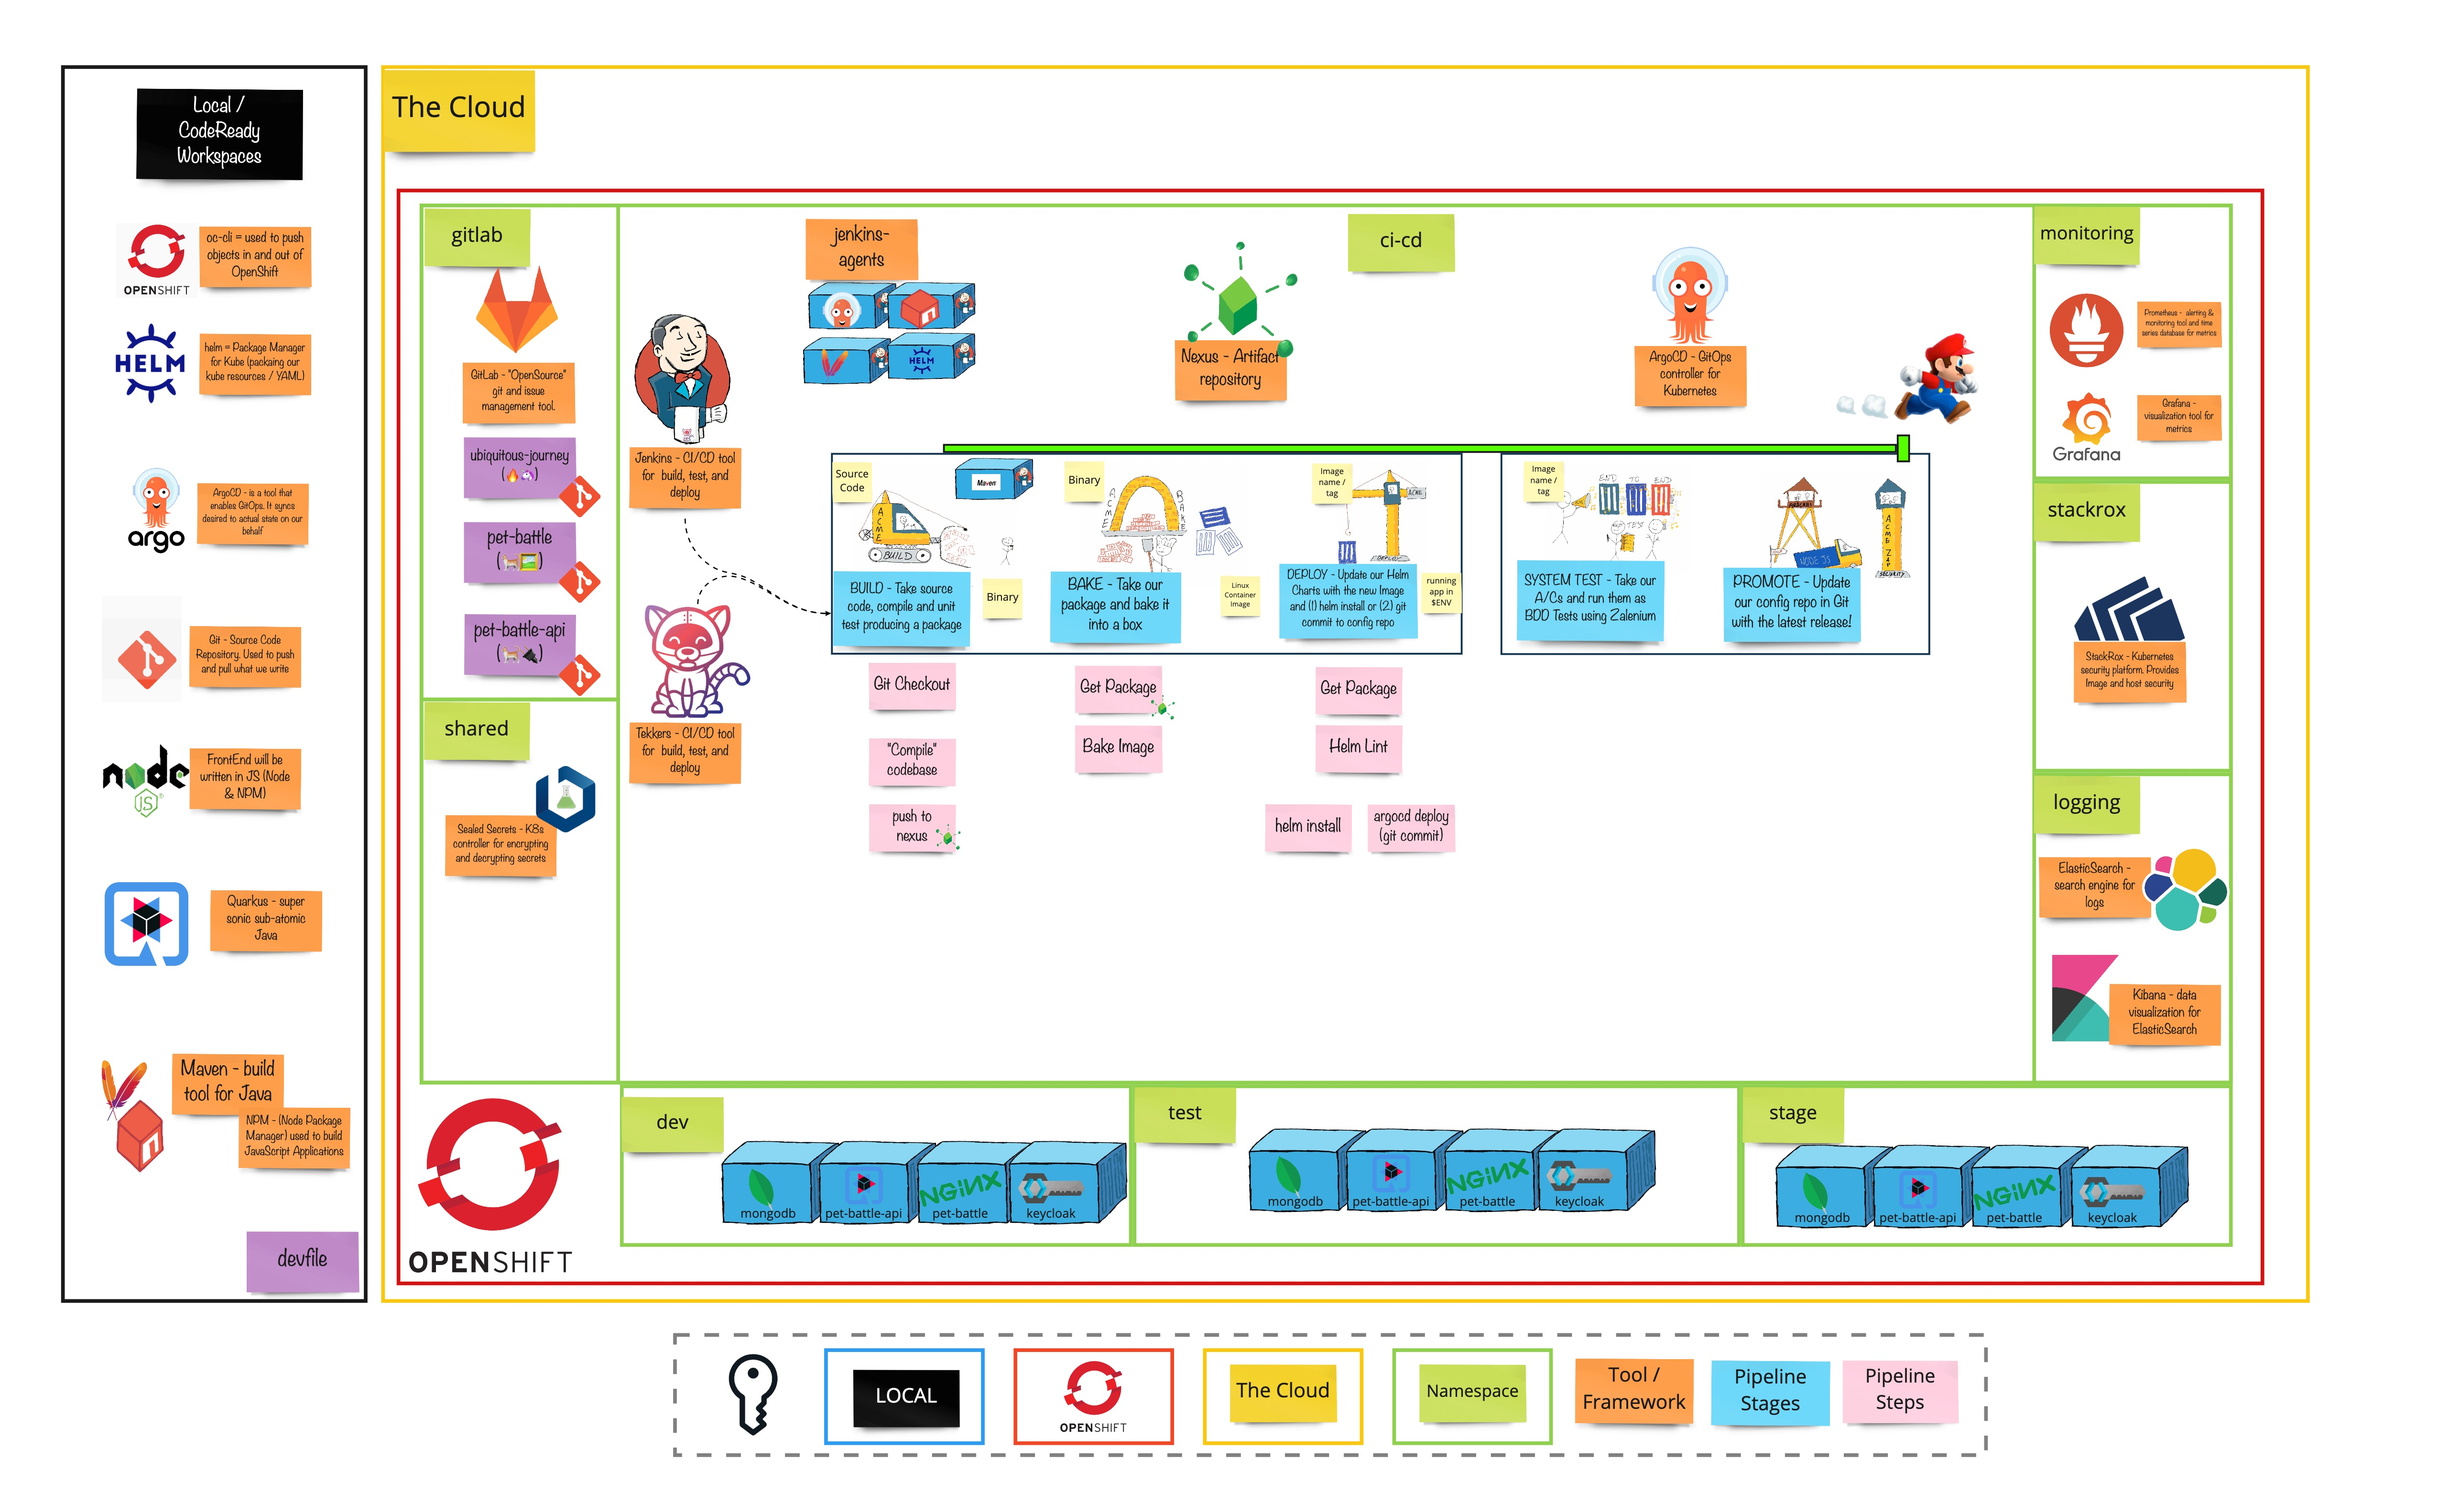
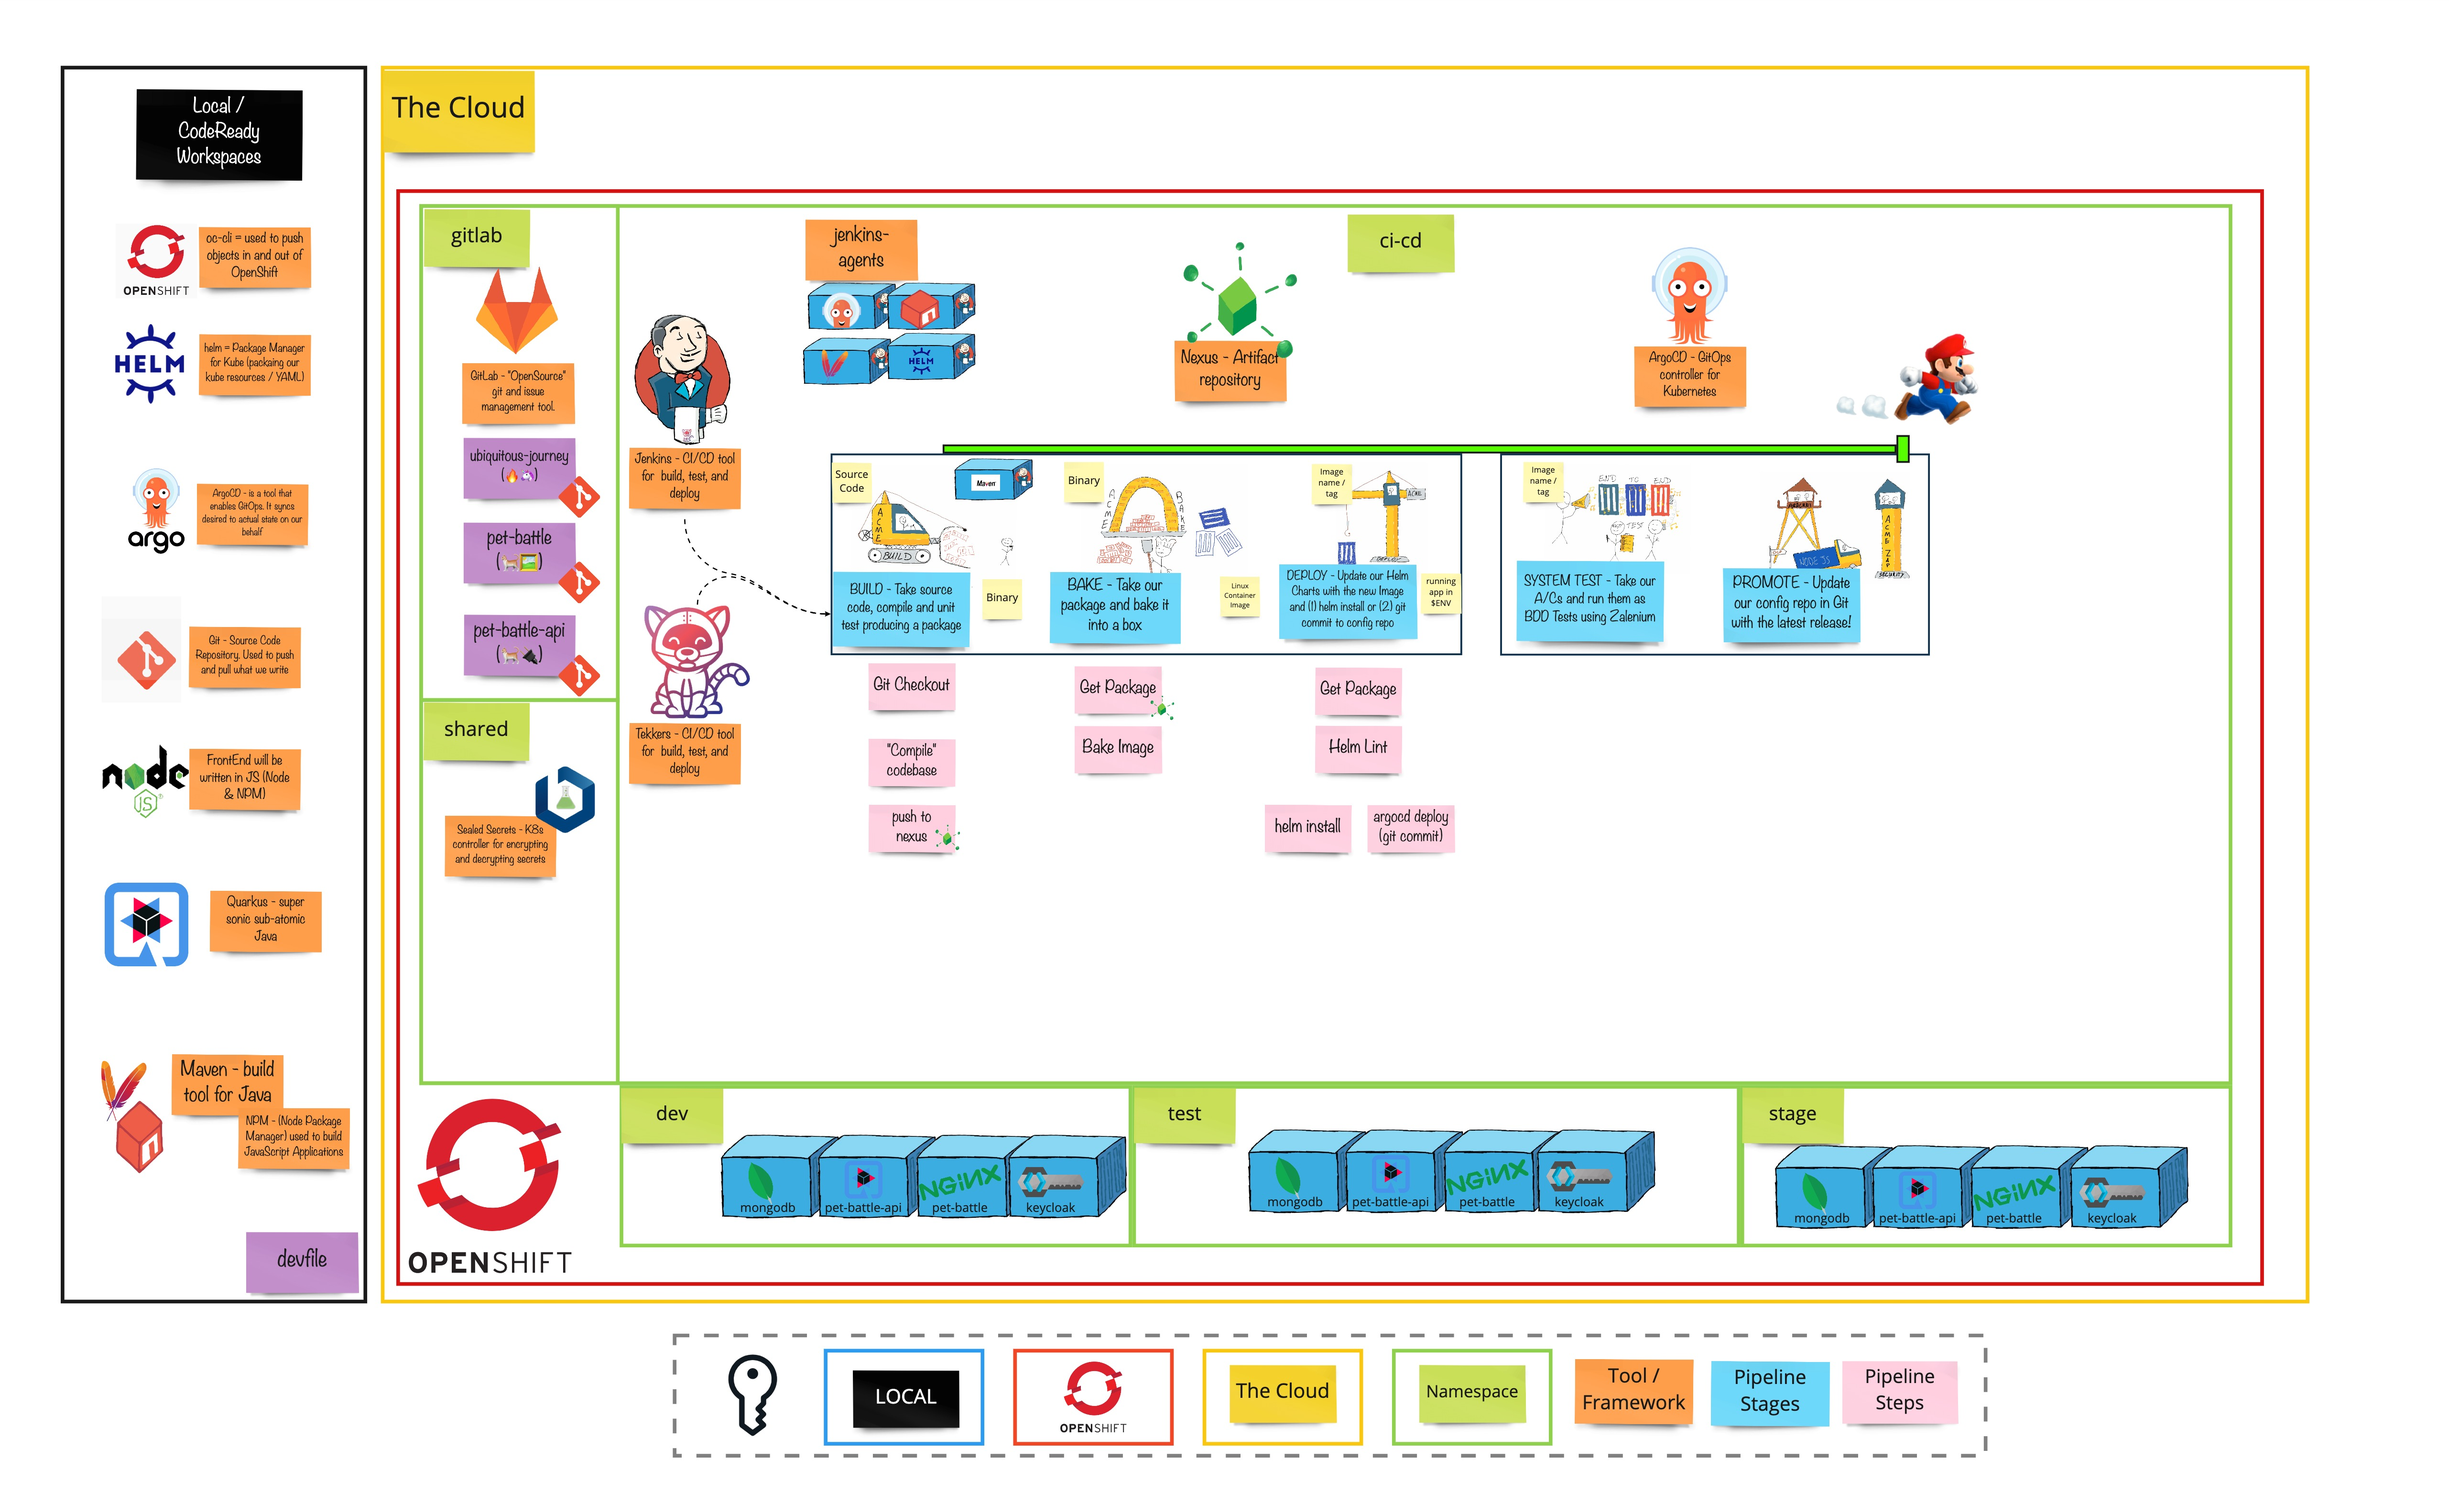
🐑 big picture per section added 🐑

diff --git a/docs/3-revenge-of-the-automated-testing/README.md b/docs/3-revenge-of-the-automated-testing/README.md
@@ -25,4 +25,4 @@ There are lots of things we can do under the heading of `Quality Gates`, so deci
 ## 🔮 Learning Outcomes
 - [ ] Add Learning Objectives
 ## 🖼 Big Picture
-![big-picture-complete](images/big-picture-complete.jpg)
+![big-picture-pipeline-complete](images/big-picture-pipeline-complete.jpg)

diff --git a/docs/5-the-deployments-strike-back/README.md b/docs/5-the-deployments-strike-back/README.md
@@ -12,4 +12,4 @@ The time between software being written and tested, till it is deployed in produ
 * ADD Tools used
 
 ## 🖼 Big Picture
-- [ ] Add Big Picture?
+![big-picture-complete](images/big-picture-complete.jpg)

diff --git a/docs/4-return-of-the-monitoring/README.md b/docs/4-return-of-the-monitoring/README.md
@@ -18,4 +18,4 @@ of issues
 * [Prometheus](https://prometheus.io/): - one line definition
 
 ## 🖼 Big Picture
-- [ ] Add Big Picture?
+![big-picture-monitoring](images/big-picture-monitoring.jpg)
